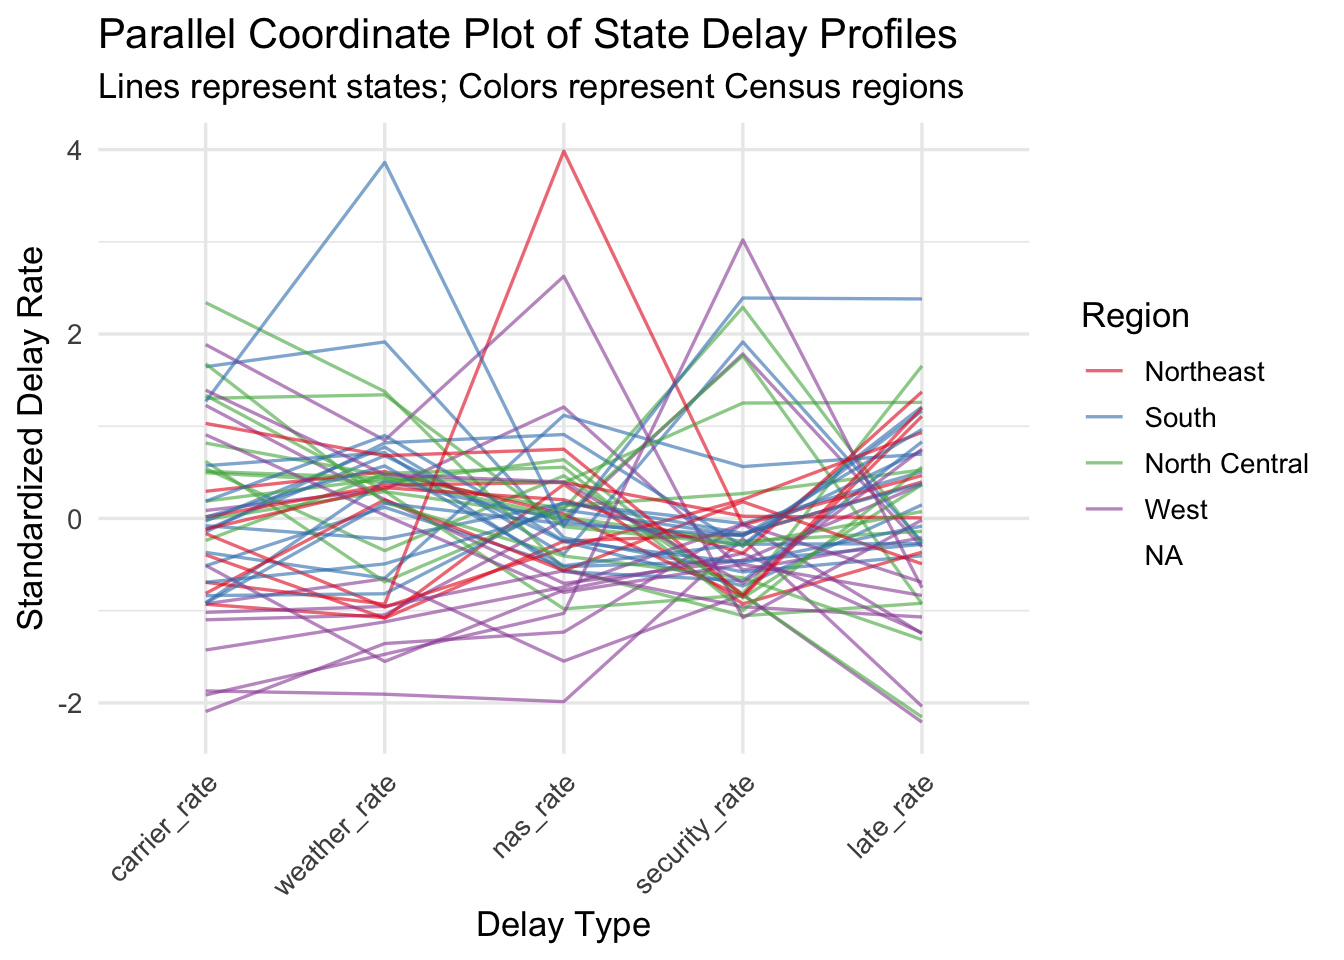
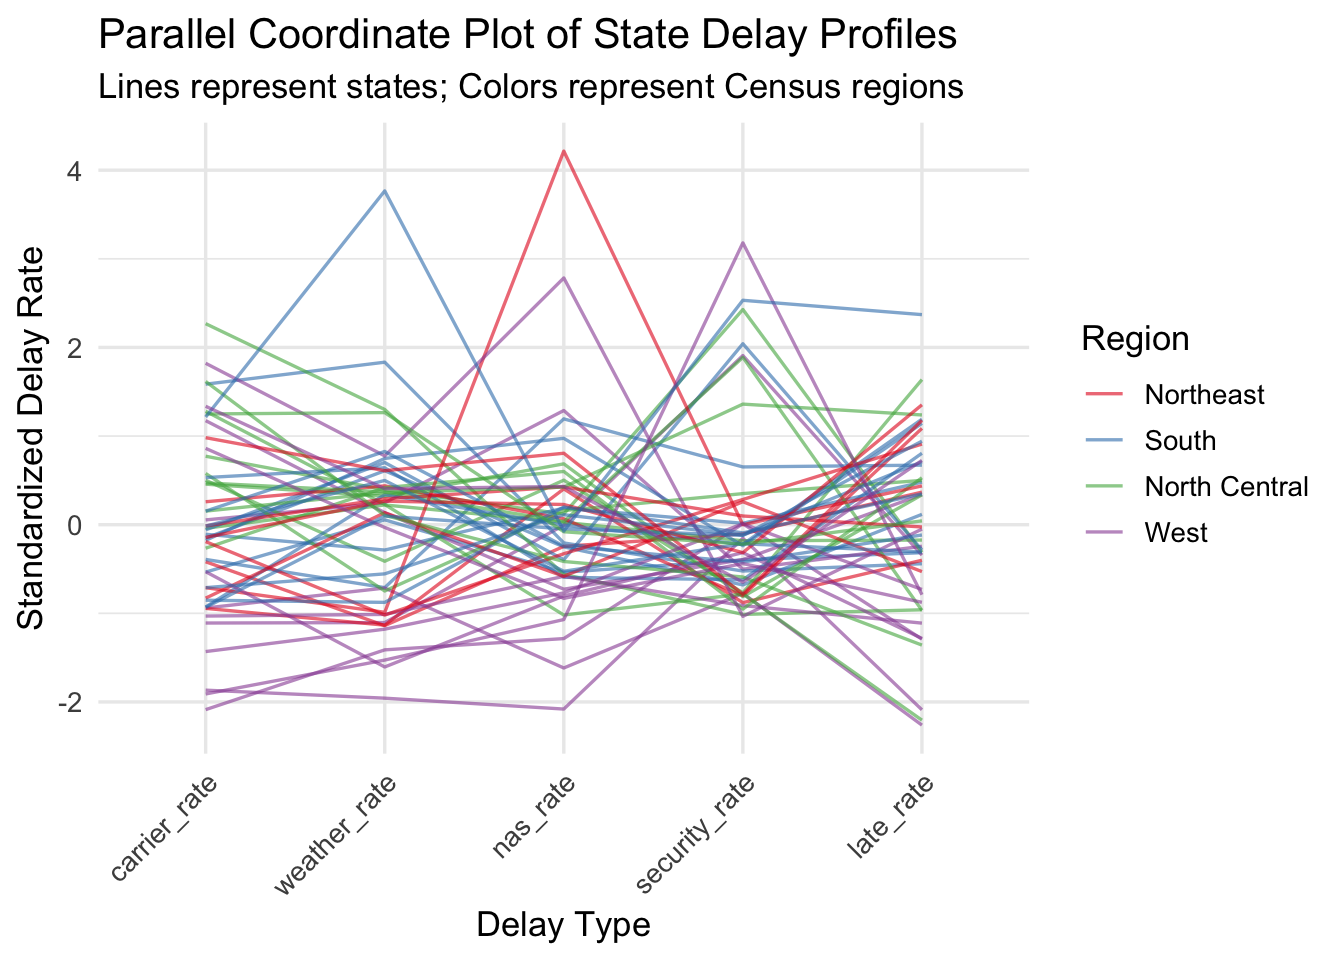
.

diff --git a/docs/results.html b/docs/results.html
@@ -182,12 +182,12 @@ pre > code.sourceCode > span > a:first-child::before { text-decoration: underlin
   <ul>
   <li><a href="#how-do-delay-patterns-vary-across-u.s.-airports-and-states-and-how-are-these-patterns-associated-with-geography-dominant-delay-types-and-airport-traffic-volume" id="toc-how-do-delay-patterns-vary-across-u.s.-airports-and-states-and-how-are-these-patterns-associated-with-geography-dominant-delay-types-and-airport-traffic-volume" class="nav-link active" data-scroll-target="#how-do-delay-patterns-vary-across-u.s.-airports-and-states-and-how-are-these-patterns-associated-with-geography-dominant-delay-types-and-airport-traffic-volume"><span class="header-section-number">3.1</span> How do delay patterns vary across U.S. airports and states, and how are these patterns associated with geography, dominant delay types, and airport traffic volume?</a></li>
   <li><a href="#which-delay-type-is-most-costly-to-the-aviation-system-and-what-are-its-underlying-patterns-and-impacts" id="toc-which-delay-type-is-most-costly-to-the-aviation-system-and-what-are-its-underlying-patterns-and-impacts" class="nav-link" data-scroll-target="#which-delay-type-is-most-costly-to-the-aviation-system-and-what-are-its-underlying-patterns-and-impacts"><span class="header-section-number">3.2</span> Which delay type is most costly to the aviation system, and what are its underlying patterns and impacts?</a></li>
-  <li><a href="#which-delay-types-are-most-prevalentmost-severe" id="toc-which-delay-types-are-most-prevalentmost-severe" class="nav-link" data-scroll-target="#which-delay-types-are-most-prevalentmost-severe"><span class="header-section-number">3.3</span> Which delay types are most prevalent/most severe?</a></li>
-  <li><a href="#how-does-each-delay-rate-vary-over-time" id="toc-how-does-each-delay-rate-vary-over-time" class="nav-link" data-scroll-target="#how-does-each-delay-rate-vary-over-time"><span class="header-section-number">3.4</span> How does each delay rate vary over time?</a></li>
-  <li><a href="#is-there-a-relationship-between-hub-type-and-late-aircraft-delay-rates" id="toc-is-there-a-relationship-between-hub-type-and-late-aircraft-delay-rates" class="nav-link" data-scroll-target="#is-there-a-relationship-between-hub-type-and-late-aircraft-delay-rates"><span class="header-section-number">3.5</span> Is there a relationship between hub type and late aircraft delay rates?</a></li>
-  <li><a href="#how-do-different-delay-types-cluster-at-airports" id="toc-how-do-different-delay-types-cluster-at-airports" class="nav-link" data-scroll-target="#how-do-different-delay-types-cluster-at-airports"><span class="header-section-number">4</span> How do different delay types cluster at airports?</a>
+  <li><a href="#which-delay-types-are-most-prevalentmost-severe" id="toc-which-delay-types-are-most-prevalentmost-severe" class="nav-link" data-scroll-target="#which-delay-types-are-most-prevalentmost-severe"><span class="header-section-number">3.3</span> Which delay types are most prevalent/most severe?</a>
   <ul class="collapse">
-  <li><a href="#which-airports-experience-the-highest-late-aircraft-delays" id="toc-which-airports-experience-the-highest-late-aircraft-delays" class="nav-link" data-scroll-target="#which-airports-experience-the-highest-late-aircraft-delays"><span class="header-section-number">4.1</span> Which airports experience the highest late aircraft delays?</a></li>
+  <li><a href="#how-does-each-delay-rate-vary-over-time" id="toc-how-does-each-delay-rate-vary-over-time" class="nav-link" data-scroll-target="#how-does-each-delay-rate-vary-over-time"><span class="header-section-number">3.3.1</span> How does each delay rate vary over time?</a></li>
+  <li><a href="#is-there-a-relationship-between-hub-type-and-late-aircraft-delay-rates" id="toc-is-there-a-relationship-between-hub-type-and-late-aircraft-delay-rates" class="nav-link" data-scroll-target="#is-there-a-relationship-between-hub-type-and-late-aircraft-delay-rates"><span class="header-section-number">3.3.2</span> Is there a relationship between hub type and late aircraft delay rates?</a></li>
+  <li><a href="#how-do-different-delay-types-cluster-at-airports" id="toc-how-do-different-delay-types-cluster-at-airports" class="nav-link" data-scroll-target="#how-do-different-delay-types-cluster-at-airports"><span class="header-section-number">3.3.3</span> How do different delay types cluster at airports?</a></li>
+  <li><a href="#which-airports-experience-the-highest-late-aircraft-delays" id="toc-which-airports-experience-the-highest-late-aircraft-delays" class="nav-link" data-scroll-target="#which-airports-experience-the-highest-late-aircraft-delays"><span class="header-section-number">3.3.4</span> Which airports experience the highest late aircraft delays?</a></li>
   </ul></li>
   </ul>
 <div class="toc-actions"><ul><li><a href="https://github.com/prksyng54/airplane_delays.git/edit/main/results.qmd" class="toc-action"><i class="bi bi-github"></i>Edit this page</a></li><li><a href="https://github.com/prksyng54/airplane_delays.git/issues/new" class="toc-action"><i class="bi empty"></i>Report an issue</a></li></ul></div></nav>
@@ -278,36 +278,37 @@ pre > code.sourceCode > span > a:first-child::before { text-decoration: underlin
 <span id="cb3-6"><a href="#cb3-6" aria-hidden="true" tabindex="-1"></a>    <span class="at">state =</span> <span class="fu">sub</span>(<span class="st">".*, ([A-Z]{2}):.*"</span>, <span class="st">"</span><span class="sc">\\</span><span class="st">1"</span>, airport_name),</span>
 <span id="cb3-7"><a href="#cb3-7" aria-hidden="true" tabindex="-1"></a>    <span class="at">region =</span> state.region[<span class="fu">match</span>(state, state.abb)]</span>
 <span id="cb3-8"><a href="#cb3-8" aria-hidden="true" tabindex="-1"></a>  ) <span class="sc">|&gt;</span></span>
-<span id="cb3-9"><a href="#cb3-9" aria-hidden="true" tabindex="-1"></a>  <span class="fu">group_by</span>(state, region) <span class="sc">|&gt;</span></span>
-<span id="cb3-10"><a href="#cb3-10" aria-hidden="true" tabindex="-1"></a>  <span class="fu">summarise</span>(</span>
-<span id="cb3-11"><a href="#cb3-11" aria-hidden="true" tabindex="-1"></a>    <span class="at">carrier_rate =</span> <span class="fu">mean</span>(carrier_rate, <span class="at">na.rm =</span> <span class="cn">TRUE</span>),</span>
-<span id="cb3-12"><a href="#cb3-12" aria-hidden="true" tabindex="-1"></a>    <span class="at">weather_rate =</span> <span class="fu">mean</span>(weather_rate, <span class="at">na.rm =</span> <span class="cn">TRUE</span>),</span>
-<span id="cb3-13"><a href="#cb3-13" aria-hidden="true" tabindex="-1"></a>    <span class="at">nas_rate =</span> <span class="fu">mean</span>(nas_rate, <span class="at">na.rm =</span> <span class="cn">TRUE</span>),</span>
-<span id="cb3-14"><a href="#cb3-14" aria-hidden="true" tabindex="-1"></a>    <span class="at">security_rate =</span> <span class="fu">mean</span>(security_rate, <span class="at">na.rm =</span> <span class="cn">TRUE</span>),</span>
-<span id="cb3-15"><a href="#cb3-15" aria-hidden="true" tabindex="-1"></a>    <span class="at">late_rate =</span> <span class="fu">mean</span>(late_aircraft_rate, <span class="at">na.rm =</span> <span class="cn">TRUE</span>),</span>
-<span id="cb3-16"><a href="#cb3-16" aria-hidden="true" tabindex="-1"></a>    <span class="at">.groups =</span> <span class="st">"drop"</span></span>
-<span id="cb3-17"><a href="#cb3-17" aria-hidden="true" tabindex="-1"></a>  )</span>
-<span id="cb3-18"><a href="#cb3-18" aria-hidden="true" tabindex="-1"></a></span>
-<span id="cb3-19"><a href="#cb3-19" aria-hidden="true" tabindex="-1"></a>GGally<span class="sc">::</span><span class="fu">ggparcoord</span>(</span>
-<span id="cb3-20"><a href="#cb3-20" aria-hidden="true" tabindex="-1"></a>  <span class="at">data =</span> state_delay,</span>
-<span id="cb3-21"><a href="#cb3-21" aria-hidden="true" tabindex="-1"></a>  <span class="at">columns =</span> <span class="dv">3</span><span class="sc">:</span><span class="dv">7</span>,        <span class="co"># the 5 delay rate columns</span></span>
-<span id="cb3-22"><a href="#cb3-22" aria-hidden="true" tabindex="-1"></a>  <span class="at">groupColumn =</span> <span class="st">"region"</span>,</span>
-<span id="cb3-23"><a href="#cb3-23" aria-hidden="true" tabindex="-1"></a>  <span class="at">scale =</span> <span class="st">"std"</span>,        <span class="co"># normalize each axis</span></span>
-<span id="cb3-24"><a href="#cb3-24" aria-hidden="true" tabindex="-1"></a>  <span class="at">alphaLines =</span> <span class="fl">0.6</span></span>
-<span id="cb3-25"><a href="#cb3-25" aria-hidden="true" tabindex="-1"></a>) <span class="sc">+</span></span>
-<span id="cb3-26"><a href="#cb3-26" aria-hidden="true" tabindex="-1"></a>  <span class="fu">scale_color_brewer</span>(<span class="at">palette =</span> <span class="st">"Set1"</span>) <span class="sc">+</span></span>
-<span id="cb3-27"><a href="#cb3-27" aria-hidden="true" tabindex="-1"></a>  <span class="fu">theme_minimal</span>(<span class="at">base_size =</span> <span class="dv">13</span>) <span class="sc">+</span></span>
-<span id="cb3-28"><a href="#cb3-28" aria-hidden="true" tabindex="-1"></a>  <span class="fu">labs</span>(</span>
-<span id="cb3-29"><a href="#cb3-29" aria-hidden="true" tabindex="-1"></a>    <span class="at">title =</span> <span class="st">"Parallel Coordinate Plot of State Delay Profiles"</span>,</span>
-<span id="cb3-30"><a href="#cb3-30" aria-hidden="true" tabindex="-1"></a>    <span class="at">subtitle =</span> <span class="st">"Lines represent states; Colors represent Census regions"</span>,</span>
-<span id="cb3-31"><a href="#cb3-31" aria-hidden="true" tabindex="-1"></a>    <span class="at">x =</span> <span class="st">"Delay Type"</span>,</span>
-<span id="cb3-32"><a href="#cb3-32" aria-hidden="true" tabindex="-1"></a>    <span class="at">y =</span> <span class="st">"Standardized Delay Rate"</span>,</span>
-<span id="cb3-33"><a href="#cb3-33" aria-hidden="true" tabindex="-1"></a>    <span class="at">color =</span> <span class="st">"Region"</span></span>
-<span id="cb3-34"><a href="#cb3-34" aria-hidden="true" tabindex="-1"></a>  ) <span class="sc">+</span></span>
-<span id="cb3-35"><a href="#cb3-35" aria-hidden="true" tabindex="-1"></a>  <span class="fu">theme</span>(</span>
-<span id="cb3-36"><a href="#cb3-36" aria-hidden="true" tabindex="-1"></a>    <span class="at">legend.position =</span> <span class="st">"right"</span>,</span>
-<span id="cb3-37"><a href="#cb3-37" aria-hidden="true" tabindex="-1"></a>    <span class="at">axis.text.x =</span> <span class="fu">element_text</span>(<span class="at">angle =</span> <span class="dv">45</span>, <span class="at">hjust =</span> <span class="dv">1</span>)</span>
-<span id="cb3-38"><a href="#cb3-38" aria-hidden="true" tabindex="-1"></a>  )</span></code></pre></div><button title="Copy to Clipboard" class="code-copy-button"><i class="bi"></i></button></div>
+<span id="cb3-9"><a href="#cb3-9" aria-hidden="true" tabindex="-1"></a>  <span class="fu">drop_na</span>(region) <span class="sc">|&gt;</span>      <span class="co"># ← REMOVE NA regions</span></span>
+<span id="cb3-10"><a href="#cb3-10" aria-hidden="true" tabindex="-1"></a>  <span class="fu">group_by</span>(state, region) <span class="sc">|&gt;</span></span>
+<span id="cb3-11"><a href="#cb3-11" aria-hidden="true" tabindex="-1"></a>  <span class="fu">summarise</span>(</span>
+<span id="cb3-12"><a href="#cb3-12" aria-hidden="true" tabindex="-1"></a>    <span class="at">carrier_rate =</span> <span class="fu">mean</span>(carrier_rate, <span class="at">na.rm =</span> <span class="cn">TRUE</span>),</span>
+<span id="cb3-13"><a href="#cb3-13" aria-hidden="true" tabindex="-1"></a>    <span class="at">weather_rate =</span> <span class="fu">mean</span>(weather_rate, <span class="at">na.rm =</span> <span class="cn">TRUE</span>),</span>
+<span id="cb3-14"><a href="#cb3-14" aria-hidden="true" tabindex="-1"></a>    <span class="at">nas_rate =</span> <span class="fu">mean</span>(nas_rate, <span class="at">na.rm =</span> <span class="cn">TRUE</span>),</span>
+<span id="cb3-15"><a href="#cb3-15" aria-hidden="true" tabindex="-1"></a>    <span class="at">security_rate =</span> <span class="fu">mean</span>(security_rate, <span class="at">na.rm =</span> <span class="cn">TRUE</span>),</span>
+<span id="cb3-16"><a href="#cb3-16" aria-hidden="true" tabindex="-1"></a>    <span class="at">late_rate =</span> <span class="fu">mean</span>(late_aircraft_rate, <span class="at">na.rm =</span> <span class="cn">TRUE</span>),</span>
+<span id="cb3-17"><a href="#cb3-17" aria-hidden="true" tabindex="-1"></a>    <span class="at">.groups =</span> <span class="st">"drop"</span></span>
+<span id="cb3-18"><a href="#cb3-18" aria-hidden="true" tabindex="-1"></a>  )</span>
+<span id="cb3-19"><a href="#cb3-19" aria-hidden="true" tabindex="-1"></a></span>
+<span id="cb3-20"><a href="#cb3-20" aria-hidden="true" tabindex="-1"></a>GGally<span class="sc">::</span><span class="fu">ggparcoord</span>(</span>
+<span id="cb3-21"><a href="#cb3-21" aria-hidden="true" tabindex="-1"></a>  <span class="at">data =</span> state_delay,</span>
+<span id="cb3-22"><a href="#cb3-22" aria-hidden="true" tabindex="-1"></a>  <span class="at">columns =</span> <span class="dv">3</span><span class="sc">:</span><span class="dv">7</span>,        </span>
+<span id="cb3-23"><a href="#cb3-23" aria-hidden="true" tabindex="-1"></a>  <span class="at">groupColumn =</span> <span class="st">"region"</span>,</span>
+<span id="cb3-24"><a href="#cb3-24" aria-hidden="true" tabindex="-1"></a>  <span class="at">scale =</span> <span class="st">"std"</span>,</span>
+<span id="cb3-25"><a href="#cb3-25" aria-hidden="true" tabindex="-1"></a>  <span class="at">alphaLines =</span> <span class="fl">0.6</span></span>
+<span id="cb3-26"><a href="#cb3-26" aria-hidden="true" tabindex="-1"></a>) <span class="sc">+</span></span>
+<span id="cb3-27"><a href="#cb3-27" aria-hidden="true" tabindex="-1"></a>  <span class="fu">scale_color_brewer</span>(<span class="at">palette =</span> <span class="st">"Set1"</span>) <span class="sc">+</span></span>
+<span id="cb3-28"><a href="#cb3-28" aria-hidden="true" tabindex="-1"></a>  <span class="fu">theme_minimal</span>(<span class="at">base_size =</span> <span class="dv">13</span>) <span class="sc">+</span></span>
+<span id="cb3-29"><a href="#cb3-29" aria-hidden="true" tabindex="-1"></a>  <span class="fu">labs</span>(</span>
+<span id="cb3-30"><a href="#cb3-30" aria-hidden="true" tabindex="-1"></a>    <span class="at">title =</span> <span class="st">"Parallel Coordinate Plot of State Delay Profiles"</span>,</span>
+<span id="cb3-31"><a href="#cb3-31" aria-hidden="true" tabindex="-1"></a>    <span class="at">subtitle =</span> <span class="st">"Lines represent states; Colors represent Census regions"</span>,</span>
+<span id="cb3-32"><a href="#cb3-32" aria-hidden="true" tabindex="-1"></a>    <span class="at">x =</span> <span class="st">"Delay Type"</span>,</span>
+<span id="cb3-33"><a href="#cb3-33" aria-hidden="true" tabindex="-1"></a>    <span class="at">y =</span> <span class="st">"Standardized Delay Rate"</span>,</span>
+<span id="cb3-34"><a href="#cb3-34" aria-hidden="true" tabindex="-1"></a>    <span class="at">color =</span> <span class="st">"Region"</span></span>
+<span id="cb3-35"><a href="#cb3-35" aria-hidden="true" tabindex="-1"></a>  ) <span class="sc">+</span></span>
+<span id="cb3-36"><a href="#cb3-36" aria-hidden="true" tabindex="-1"></a>  <span class="fu">theme</span>(</span>
+<span id="cb3-37"><a href="#cb3-37" aria-hidden="true" tabindex="-1"></a>    <span class="at">legend.position =</span> <span class="st">"right"</span>,</span>
+<span id="cb3-38"><a href="#cb3-38" aria-hidden="true" tabindex="-1"></a>    <span class="at">axis.text.x =</span> <span class="fu">element_text</span>(<span class="at">angle =</span> <span class="dv">45</span>, <span class="at">hjust =</span> <span class="dv">1</span>)</span>
+<span id="cb3-39"><a href="#cb3-39" aria-hidden="true" tabindex="-1"></a>  )</span></code></pre></div><button title="Copy to Clipboard" class="code-copy-button"><i class="bi"></i></button></div>
 </details>
 <div class="cell-output-display">
 <div>
@@ -733,9 +734,8 @@ $`Late Aircraft`</code></pre>
 <p>Weather delays are the most severe (an almost 2 hour average), yet the rarest (.9 per 100 flights), contributing to only ~ 6% of total system delay minutes. Weather delays, while severe, are not the main operation concern and often come from unavoidable external factors rather than inefficiency in the system.</p>
 <p>Security delays are almost completely negligible representing less than .2% of total delay minutes.</p>
 <p>Delay counts contains decimal values, likely representing when delays have multiple contributing causes.</p>
-</section>
-<section id="how-does-each-delay-rate-vary-over-time" class="level2" data-number="3.4">
-<h2 data-number="3.4" class="anchored" data-anchor-id="how-does-each-delay-rate-vary-over-time"><span class="header-section-number">3.4</span> How does each delay rate vary over time?</h2>
+<section id="how-does-each-delay-rate-vary-over-time" class="level3" data-number="3.3.1">
+<h3 data-number="3.3.1" class="anchored" data-anchor-id="how-does-each-delay-rate-vary-over-time"><span class="header-section-number">3.3.1</span> How does each delay rate vary over time?</h3>
 <div class="cell">
 <details class="code-fold">
 <summary>Code</summary>
@@ -804,8 +804,8 @@ $`Late Aircraft`</code></pre>
 <p>According to the TSA, four of 2024’s top ten travel days occurred in July, and June 22, 2025 marked the second highest single-day volume ever with 3.097 million passengers. Those dates align with peaks in the delay spikes, suggesting that increased demand during high-volume periods drives higher NAS, carrier, and Late Aircraft delay rates. The December peak most likely represents with increased holiday travel.</p>
 <p>Surprisingly, weather delays remain consistently low throughout the year, even with varying weather patterns per season. Security delays remain negligible.</p>
 </section>
-<section id="is-there-a-relationship-between-hub-type-and-late-aircraft-delay-rates" class="level2" data-number="3.5">
-<h2 data-number="3.5" class="anchored" data-anchor-id="is-there-a-relationship-between-hub-type-and-late-aircraft-delay-rates"><span class="header-section-number">3.5</span> Is there a relationship between hub type and late aircraft delay rates?</h2>
+<section id="is-there-a-relationship-between-hub-type-and-late-aircraft-delay-rates" class="level3" data-number="3.3.2">
+<h3 data-number="3.3.2" class="anchored" data-anchor-id="is-there-a-relationship-between-hub-type-and-late-aircraft-delay-rates"><span class="header-section-number">3.3.2</span> Is there a relationship between hub type and late aircraft delay rates?</h3>
 <div class="cell">
 <details class="code-fold">
 <summary>Code</summary>
@@ -876,8 +876,8 @@ $`Late Aircraft`</code></pre>
 </div>
 <p>Delay rates show minimal systemic variation by hub classifications, suggesting that these delays are a system-wide issue rather than hub specific. The only exception is NAS delays, which are slightly elevated at large hubs, mostly likely due to airspace congestion.</p>
 </section>
-<section id="how-do-different-delay-types-cluster-at-airports" class="level1" data-number="4">
-<h1 data-number="4"><span class="header-section-number">4</span> How do different delay types cluster at airports?</h1>
+<section id="how-do-different-delay-types-cluster-at-airports" class="level3" data-number="3.3.3">
+<h3 data-number="3.3.3" class="anchored" data-anchor-id="how-do-different-delay-types-cluster-at-airports"><span class="header-section-number">3.3.3</span> How do different delay types cluster at airports?</h3>
 <div class="cell">
 <details class="code-fold">
 <summary>Code</summary>
@@ -958,8 +958,9 @@ $`Late Aircraft`</code></pre>
 </div>
 <p>The PCA reveals two distinct delay profiles. NAS, late aircraft, and security delays are strongly correlated and tend to occur together. NAS, late aircraft, and security delays relate towa systemic congestion and bottlenecks where higher flight volume can lend itself to flight delays and higher passenger volume to security delays. This makes sense as the larger hub airports are concentrated on the negative PC1 side. Non-hub airports are more dispersed throughout the plot.</p>
 <p>Weather and carrier delays also tend to occur together, possibly representing airports where external conditions and airline-specific issues are the bigger problems. The similar arrow magnitudes across delay types indicate that multiple factors contribute to differentiating delay patterns, though carrier and weather delays align most strongly with PC1.</p>
-<section id="which-airports-experience-the-highest-late-aircraft-delays" class="level2" data-number="4.1">
-<h2 data-number="4.1" class="anchored" data-anchor-id="which-airports-experience-the-highest-late-aircraft-delays"><span class="header-section-number">4.1</span> Which airports experience the highest late aircraft delays?</h2>
+</section>
+<section id="which-airports-experience-the-highest-late-aircraft-delays" class="level3" data-number="3.3.4">
+<h3 data-number="3.3.4" class="anchored" data-anchor-id="which-airports-experience-the-highest-late-aircraft-delays"><span class="header-section-number">3.3.4</span> Which airports experience the highest late aircraft delays?</h3>
 <p>Because late aircraft delays are the highest concern and not neccesarily a problem separated by hub type, we created a dot plot of the top 50 airports with the highest late aircraft delay rates. Security delays are not included because they are so few.</p>
 <div class="cell">
 <details class="code-fold">

diff --git a/docs/index.html b/docs/index.html
@@ -188,7 +188,7 @@ ul.task-list li input[type="checkbox"] {
 
 <section id="introduction" class="level1" data-number="1">
 <h1 data-number="1"><span class="header-section-number">1</span> Introduction</h1>
-<p>On average, flight delays cost the U.S. economy $285 million and $580 million per day (<a href="https://www.airlines.org/news-update/new-data-shows-huge-impact-of-the-government-shutdown-on-airlines-and-our-customers/">FAA</a>). It also affects 236 million travelers, almost 1 in 4 passengers, each year (<a href="https://www.airhelp.com/en/blog/us-passengers-flight-delays-and-cancellations-in-2024/">Airhelp</a>). To understand where and why these delays occur, we will analyse the on-time statistics and delay causes of U.S. domestic flights from January to June 2025. Our analysis will answer two key questions: (1) How do delay patterns vary across U.S. airports and states, and how are these patterns associated with geography, dominant delay types, and airport traffic volume? (2) Which delay type is most costly to the aviation system, and what are its underlying patterns and impacts? By examining five delay categories across major airports, we can identify systemic patterns as well as airport-specific challenges that could guide future operational improvements.&nbsp;</p>
+<p>On average, flight delays cost the U.S. economy $285 million and $580 million per day (<a href="https://www.airlines.org/news-update/new-data-shows-huge-impact-of-the-government-shutdown-on-airlines-and-our-customers/">FAA</a>). It also affects 236 million travelers, almost 1 in 4 passengers, each year (<a href="https://www.airhelp.com/en/blog/us-passengers-flight-delays-and-cancellations-in-2024/">Airhelp</a>). To understand where and why these delays occur, we will analyse the on-time statistics and delay causes of U.S. domestic flights from July 2024 to July 2025. Our analysis will answer two key questions: (1) How do delay patterns vary across U.S. airports and states, and how are these patterns associated with geography, dominant delay types, and airport traffic volume? (2) Which delay type is most costly to the aviation system, and what are its underlying patterns and impacts? By examining five delay categories across major airports, we can identify systemic patterns as well as airport-specific challenges that could guide future operational improvements.&nbsp;</p>
 
 
 </section>

diff --git a/docs/data.html b/docs/data.html
@@ -226,9 +226,15 @@ It is important to note that the delay time and delay count metrics capture diff
 <section id="sources" class="level2" data-number="2.2">
 <h2 data-number="2.2" class="anchored" data-anchor-id="sources"><span class="header-section-number">2.2</span> Sources</h2>
 <ul>
-<li><p>Data Source: <a href="https://www.transtats.bts.gov/ot_delay/ot_delaycause1.asp?qv52ynB=qn6n&amp;20=E" class="uri">https://www.transtats.bts.gov/ot_delay/ot_delaycause1.asp?qv52ynB=qn6n&amp;20=E</a></p></li>
-<li><p>Source for hub classification:&nbsp;<a href="https://www.transportation.gov/sites/dot.gov/files/docs/97%20Hub%20Classification%20Stats.pdf" class="uri">https://www.transportation.gov/sites/dot.gov/files/docs/97%20Hub%20Classification%20Stats.pdf</a></p></li>
-<li><p>Sources for busiest travel days</p></li>
+<li>Data Source:</li>
+</ul>
+<p><a href="https://www.transtats.bts.gov/ot_delay/ot_delaycause1.asp?qv52ynB=qn6n&amp;20=E" class="uri">https://www.transtats.bts.gov/ot_delay/ot_delaycause1.asp?qv52ynB=qn6n&amp;20=E</a></p>
+<ul>
+<li>Source for hub classification:&nbsp;</li>
+</ul>
+<p><a href="https://www.transportation.gov/sites/dot.gov/files/docs/97%20Hub%20Classification%20Stats.pdf" class="uri">https://www.transportation.gov/sites/dot.gov/files/docs/97%20Hub%20Classification%20Stats.pdf</a></p>
+<ul>
+<li>Sources for busiest travel days</li>
 </ul>
 <p><a href="https://www.afar.com/magazine/tsa-just-had-its-busiest-week-ever" class="uri">https://www.afar.com/magazine/tsa-just-had-its-busiest-week-ever</a>&nbsp;</p>
 <p><a href="https://www.clearme.com/blog/busiest-travel-day-of-the-year" class="uri">https://www.clearme.com/blog/busiest-travel-day-of-the-year</a></p>
